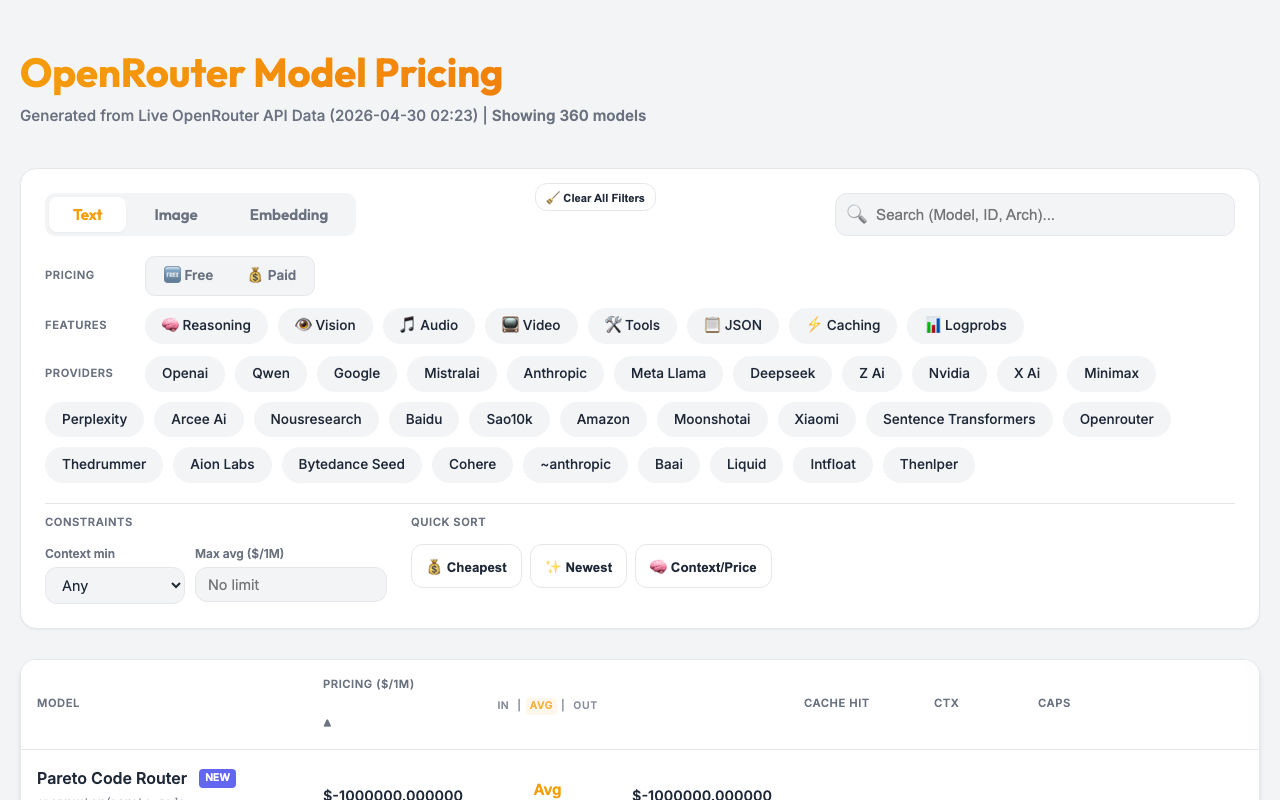
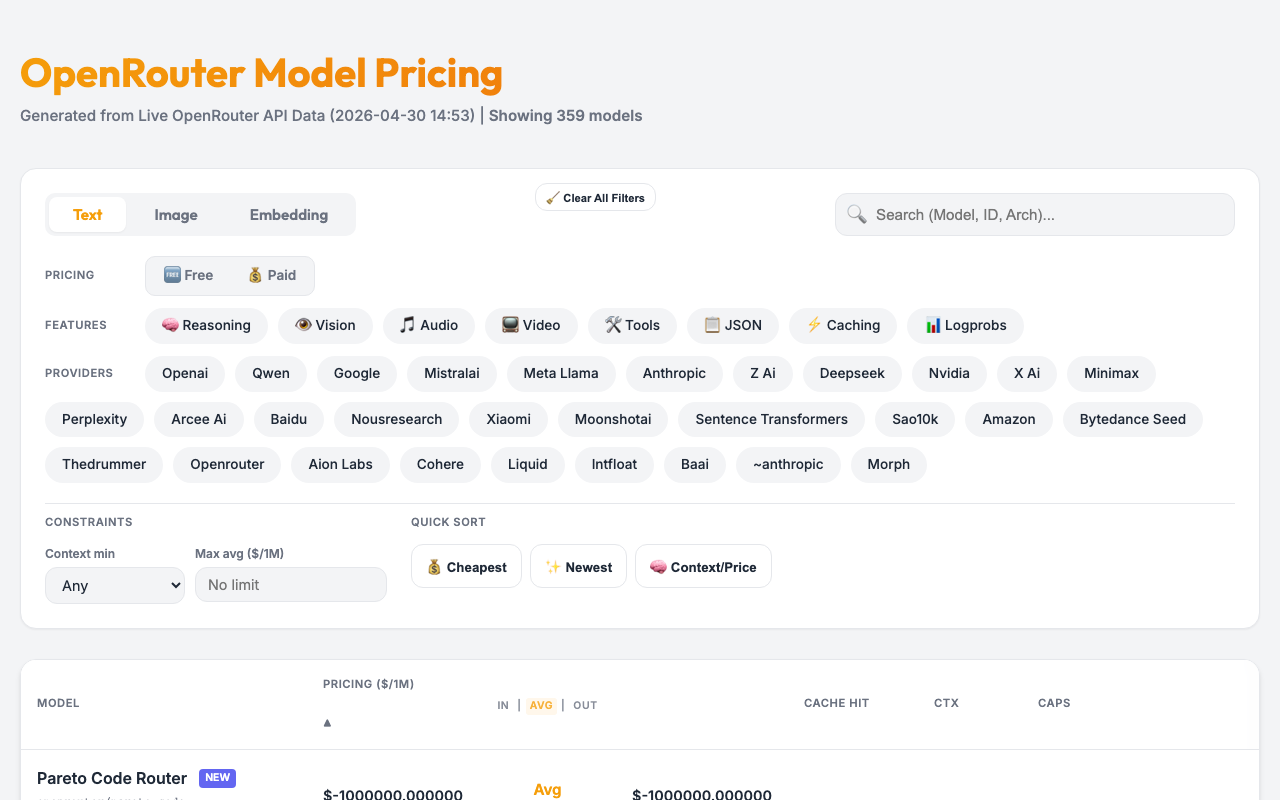
chore: automated pricing update (2026-04-30 14:53:32)
❌ Removed Models (1): mistralai/mistral-small-creative
🔄 Changed Models (5): inclusionai/ling-2.6-1t:free, moonshotai/kimi-k2.6, openai/text-embedding-3-large, openai/text-embedding-3-small, ~moonshotai/kimi-latest

diff --git a/docs/index.html b/docs/index.html
@@ -668,7 +668,7 @@
     <div class="container">
         <header>
             <h1>OpenRouter Model Pricing</h1>
-            <div class="meta">Generated from Live OpenRouter API Data (2026-04-30 02:23)</div>
+            <div class="meta">Generated from Live OpenRouter API Data (2026-04-30 14:53)</div>
         </header>
 
         <div class="controls">
@@ -1083,7 +1083,7 @@
       "name": "MoonshotAI Kimi Latest",
       "created": 1777318428,
       "description": "This model always redirects to the latest model in the MoonshotAI Kimi family.",
-      "context_length": 256000,
+      "context_length": 262144,
       "architecture": {
         "modality": "text+image->text",
         "input_modalities": [
@@ -1097,13 +1097,13 @@
         "instruct_type": null
       },
       "pricing": {
-        "prompt": "0.0000007448",
-        "completion": "0.000004655",
-        "input_cache_read": "0.0000001463"
+        "prompt": "0.00000075",
+        "completion": "0.0000035",
+        "input_cache_read": "0.00000015"
       },
       "top_provider": {
-        "context_length": 256000,
-        "max_completion_tokens": 65536,
+        "context_length": 262144,
+        "max_completion_tokens": 16384,
         "is_moderated": false
       },
       "per_request_limits": null,
@@ -1908,7 +1908,7 @@
         "repetition_penalty": null
       },
       "knowledge_cutoff": null,
-      "expiration_date": "2026-04-30",
+      "expiration_date": "2026-05-07",
       "links": {
         "details": "/api/v1/models/inclusionai/ling-2.6-1t-20260423/endpoints"
       }
@@ -2310,7 +2310,7 @@
       "name": "MoonshotAI: Kimi K2.6",
       "created": 1776699402,
       "description": "Kimi K2.6 is Moonshot AI's next-generation multimodal model, designed for long-horizon coding, coding-driven UI/UX generation, and multi-agent orchestration. It handles complex end-to-end coding tasks across Python, Rust, and Go, and...",
-      "context_length": 256000,
+      "context_length": 262144,
       "architecture": {
         "modality": "text+image->text",
         "input_modalities": [
@@ -2324,13 +2324,13 @@
         "instruct_type": null
       },
       "pricing": {
-        "prompt": "0.0000007448",
-        "completion": "0.000004655",
-        "input_cache_read": "0.0000001463"
+        "prompt": "0.00000075",
+        "completion": "0.0000035",
+        "input_cache_read": "0.00000015"
       },
       "top_provider": {
-        "context_length": 256000,
-        "max_completion_tokens": 65536,
+        "context_length": 262144,
+        "max_completion_tokens": 16384,
         "is_moderated": false
       },
       "per_request_limits": null,
@@ -6372,51 +6372,6 @@
       "expiration_date": null,
       "links": {
         "details": "/api/v1/models/google/gemini-3-flash-preview-20251217/endpoints"
-      }
-    },
-    {
-      "id": "mistralai/mistral-small-creative",
-      "canonical_slug": "mistralai/mistral-small-creative-20251216",
-      "hugging_face_id": null,
-      "name": "Mistral: Mistral Small Creative",
-      "created": 1765908653,
-      "description": "Mistral Small Creative is an experimental small model designed for creative writing, narrative generation, roleplay and character-driven dialogue, general-purpose instruction following, and conversational agents.",
-      "context_length": 32768,
-      "architecture": {
-        "modality": "text->text",
-        "input_modalities": [
-          "text"
-        ],
-        "output_modalities": [
-          "text"
-        ],
-        "tokenizer": "Mistral",
-        "instruct_type": null
-      },
-      "pricing": {
-        "prompt": "0.0000001",
-        "completion": "0.0000003",
-        "input_cache_read": "0.00000001"
-      },
-      "top_provider": {
-        "context_length": 32768,
-        "max_completion_tokens": null,
-        "is_moderated": false
-      },
-      "per_request_limits": null,
-      "supported_parameters": [
-        "tool_choice",
-        "tools"
-      ],
-      "default_parameters": {
-        "temperature": 0.3,
-        "top_p": 0.95,
-        "frequency_penalty": null
-      },
-      "knowledge_cutoff": null,
-      "expiration_date": "2026-04-30",
-      "links": {
-        "details": "/api/v1/models/mistralai/mistral-small-creative-20251216/endpoints"
       }
     },
     {
@@ -21894,6 +21849,7 @@
         "frequency_penalty",
         "logit_bias",
         "logprobs",
+        "max_completion_tokens",
         "max_tokens",
         "presence_penalty",
         "response_format",
@@ -21948,6 +21904,7 @@
         "frequency_penalty",
         "logit_bias",
         "logprobs",
+        "max_completion_tokens",
         "max_tokens",
         "presence_penalty",
         "response_format",
@@ -22186,7 +22143,7 @@
     }
   ]
 };
-        window.providerOptions = ['openai', 'qwen', 'google', 'mistralai', 'anthropic', 'meta-llama', 'deepseek', 'z-ai', 'nvidia', 'x-ai', 'minimax', 'perplexity', 'arcee-ai', 'nousresearch', 'baidu', 'sao10k', 'amazon', 'moonshotai', 'xiaomi', 'sentence-transformers', 'openrouter', 'thedrummer', 'aion-labs', 'bytedance-seed', 'cohere', '~anthropic', 'baai', 'liquid', 'intfloat', 'thenlper', 'morph', 'allenai', 'rekaai', 'inclusionai', '~openai', '~google', 'inflection', 'relace', 'poolside', 'tencent', 'microsoft', 'ibm-granite', 'kwaipilot', 'alpindale', 'ai21', '~moonshotai', 'nex-agi', 'upstage', 'alibaba', 'cognitivecomputations', 'alfredpros', 'mancer', 'undi95', 'bytedance', 'deepcogito', 'tngtech', 'prime-intellect', 'writer', 'stepfun', 'inception', 'essentialai', 'anthracite-org', 'gryphe', 'switchpoint'];
+        window.providerOptions = ['openai', 'qwen', 'google', 'mistralai', 'meta-llama', 'anthropic', 'z-ai', 'deepseek', 'nvidia', 'x-ai', 'minimax', 'perplexity', 'arcee-ai', 'baidu', 'nousresearch', 'xiaomi', 'moonshotai', 'sentence-transformers', 'sao10k', 'amazon', 'bytedance-seed', 'thedrummer', 'openrouter', 'aion-labs', 'cohere', 'liquid', 'intfloat', 'baai', '~anthropic', 'morph', '~google', 'poolside', 'rekaai', 'inclusionai', 'thenlper', 'tencent', 'microsoft', 'inflection', '~openai', 'relace', 'allenai', 'tngtech', 'gryphe', 'mancer', 'upstage', 'alibaba', 'alpindale', 'kwaipilot', 'prime-intellect', 'alfredpros', '~moonshotai', 'cognitivecomputations', 'undi95', 'bytedance', 'stepfun', 'inception', 'nex-agi', 'ai21', 'switchpoint', 'writer', 'anthracite-org', 'ibm-granite', 'essentialai', 'deepcogito'];
         let currentTab = 'text';
         let sortKey = 'price_avg';
         let sortAsc = true;
